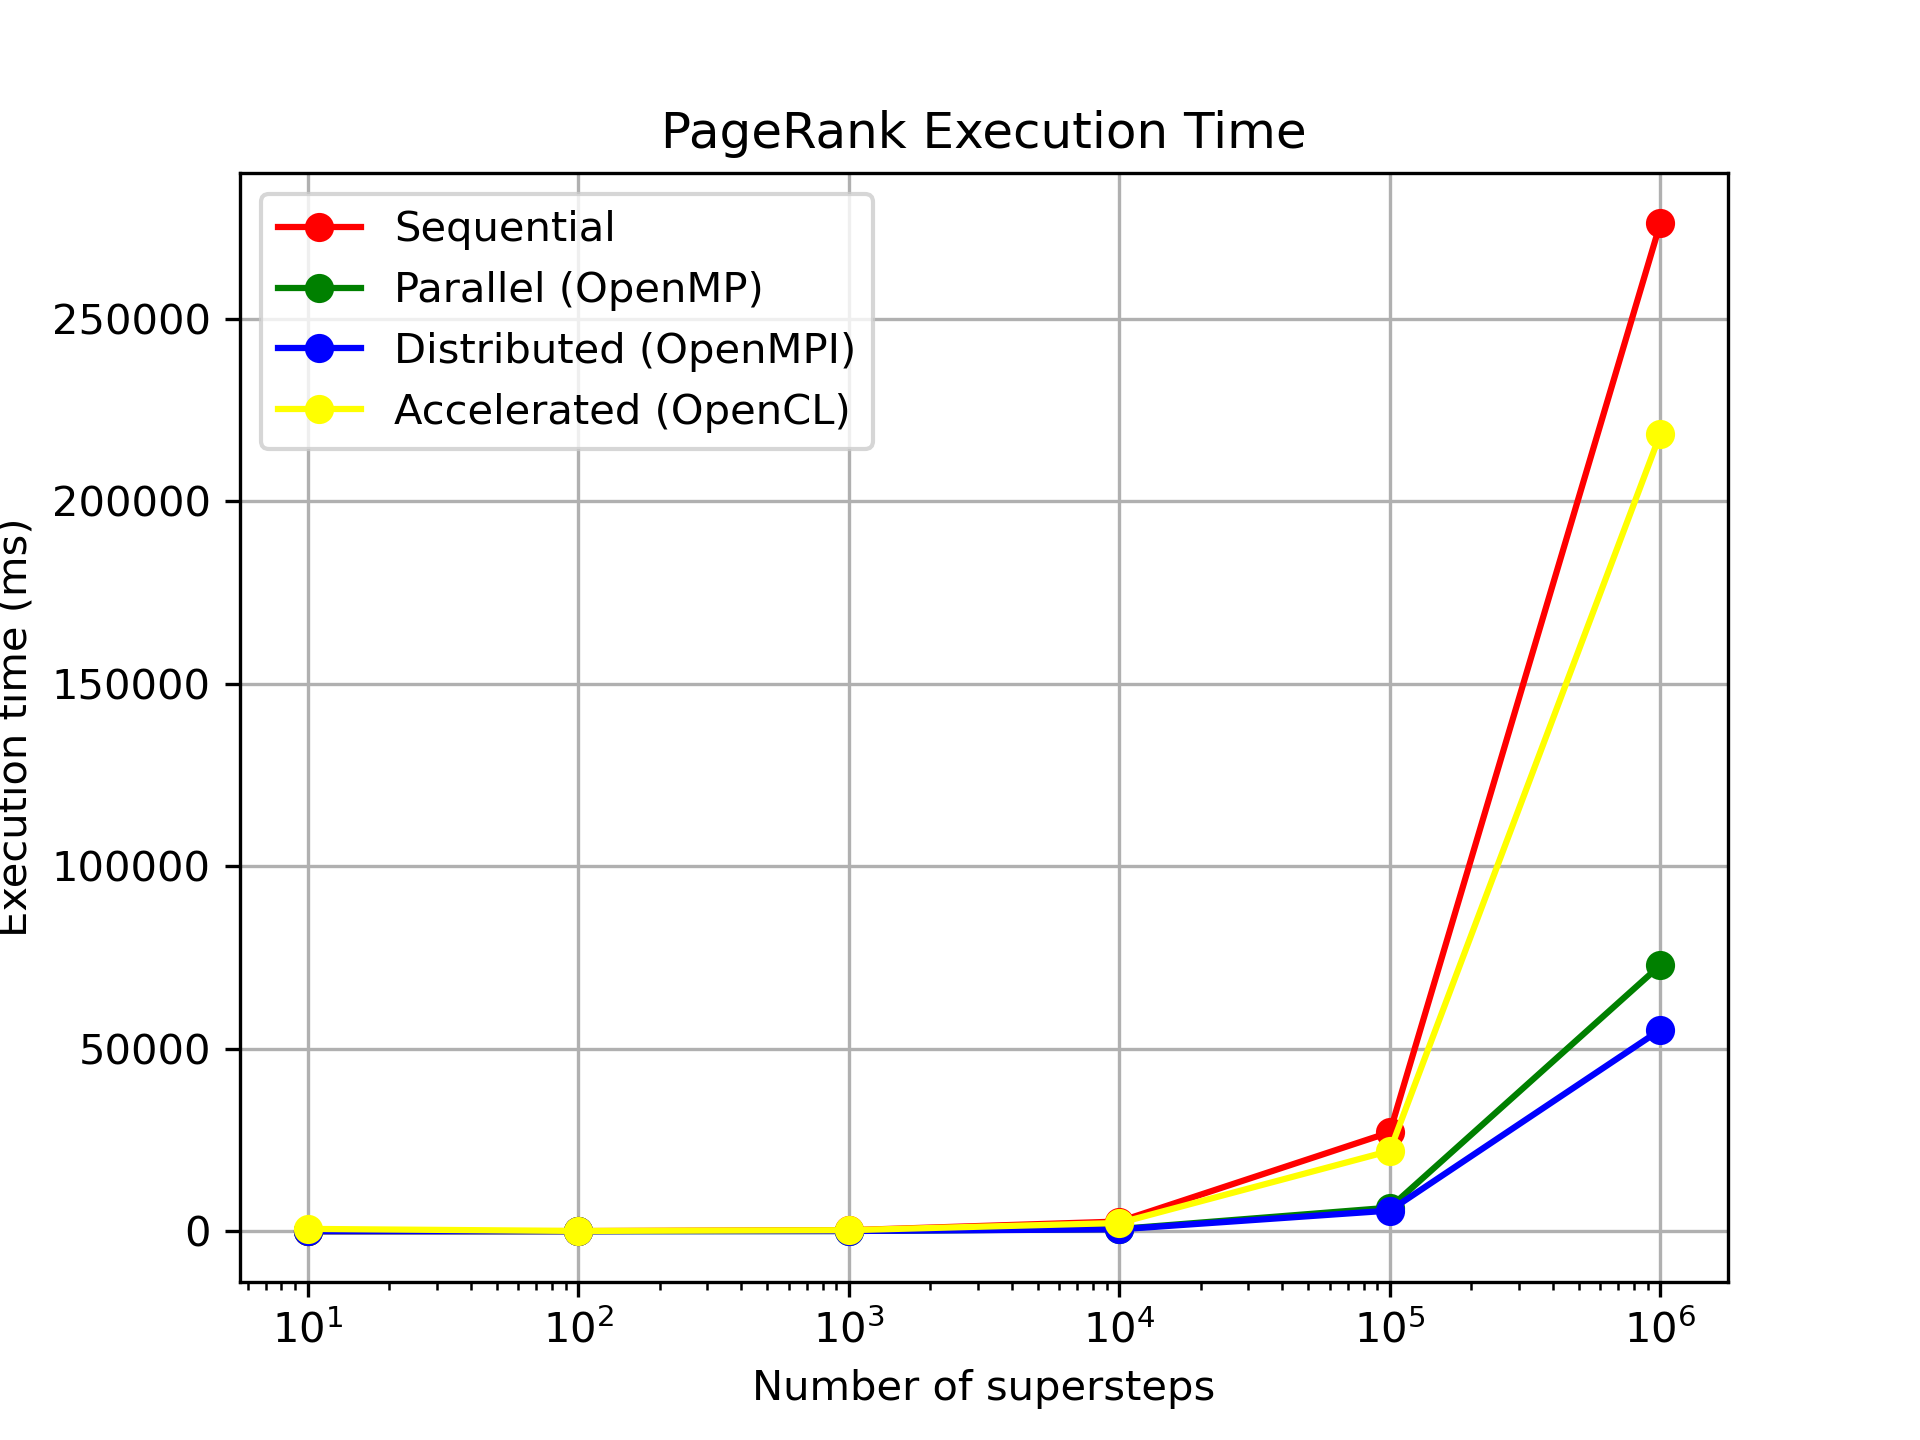
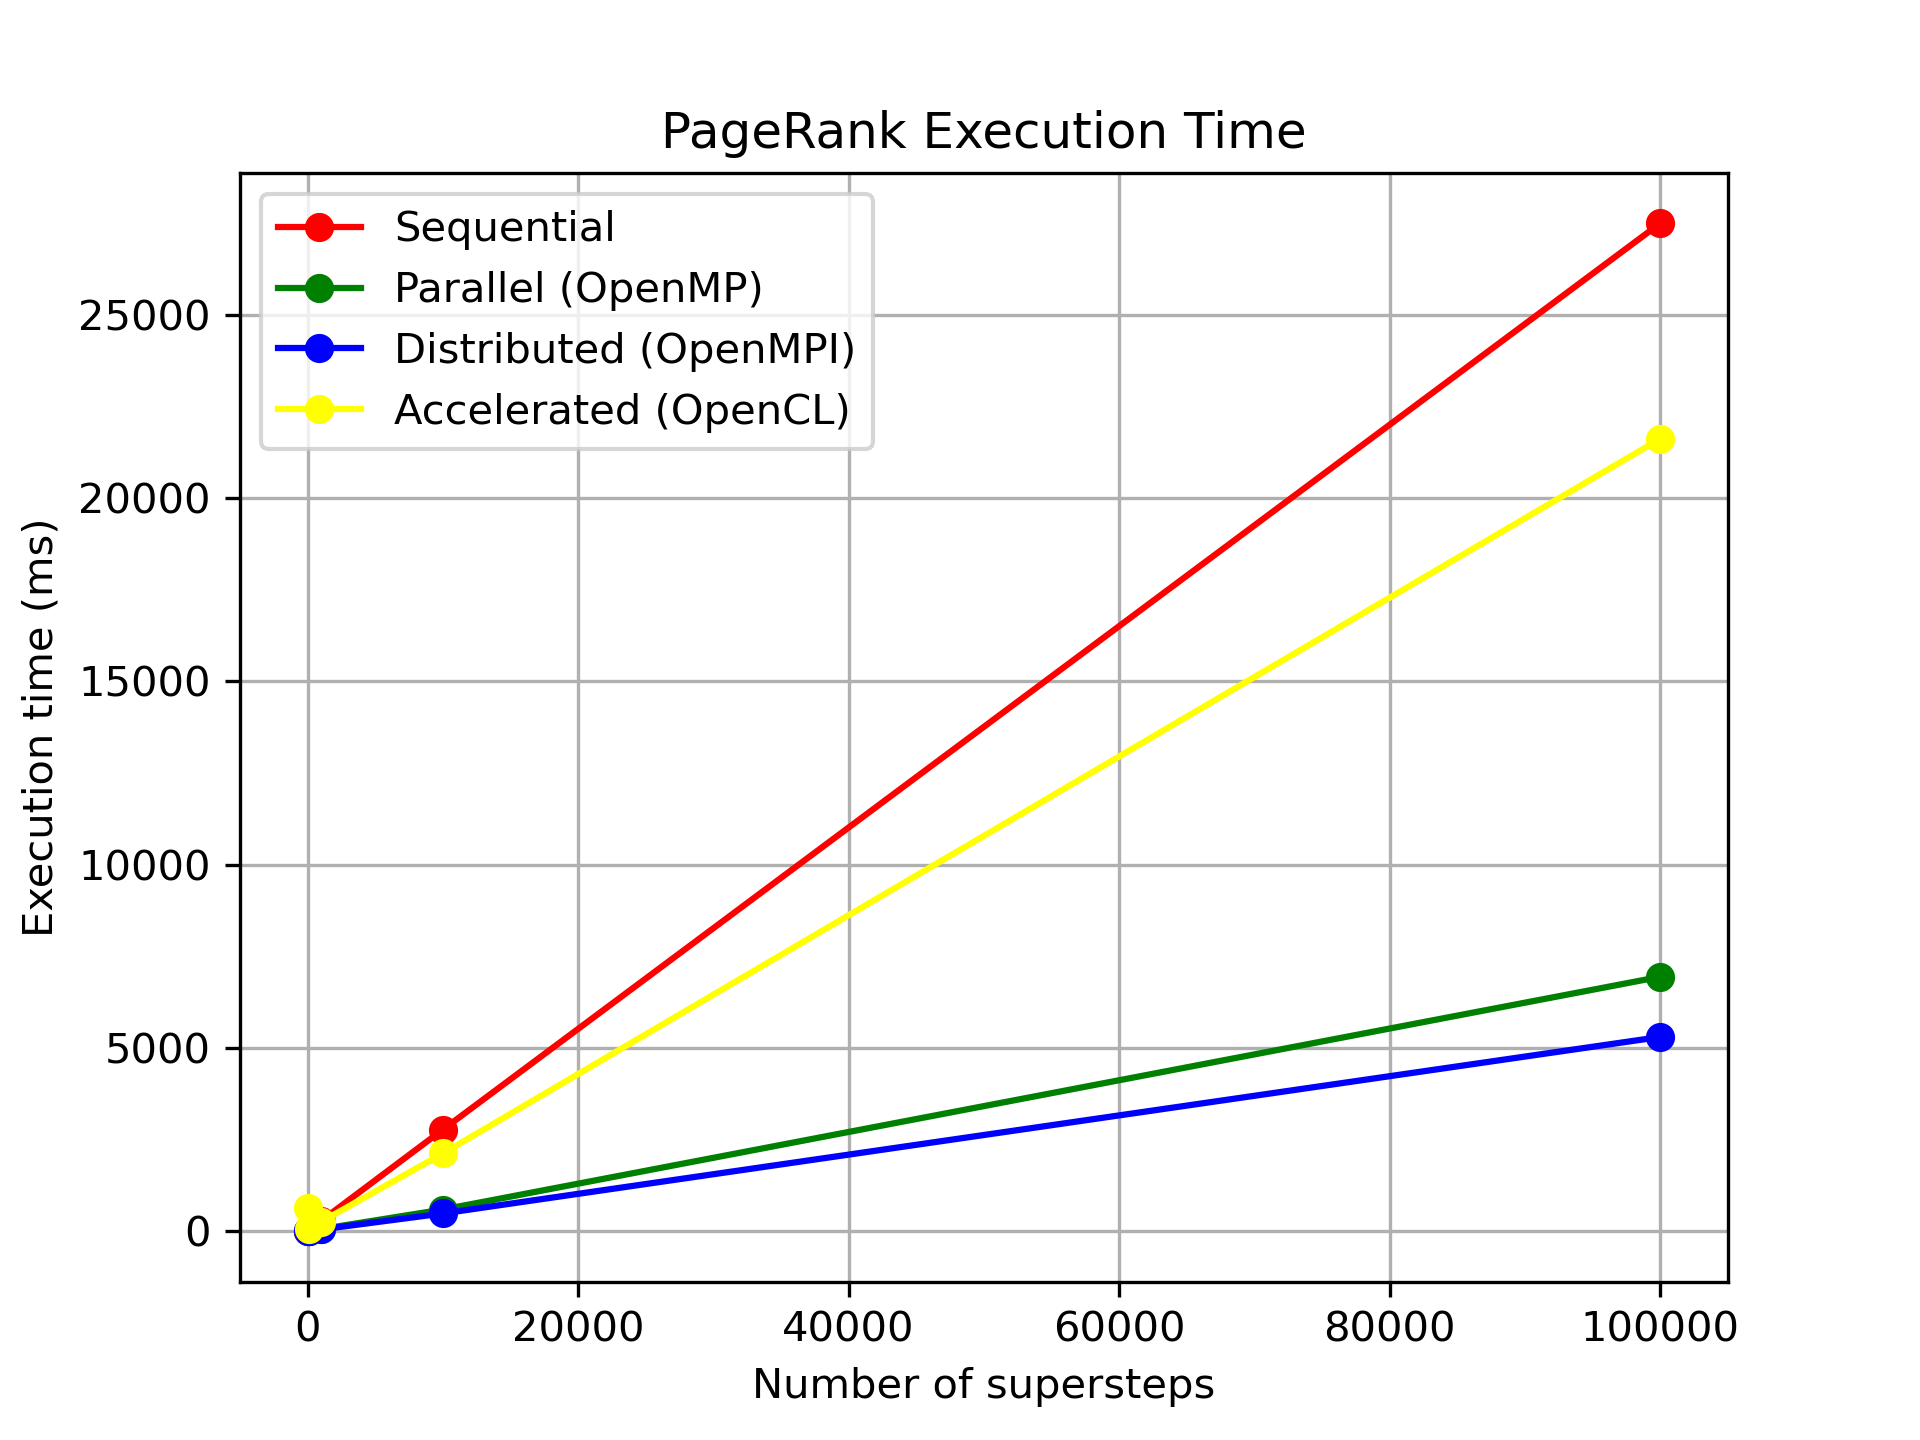
feature: Run/Stop scripts.

diff --git a/examples/page-rank/test-runner/test_runner.py b/examples/page-rank/test-runner/test_runner.py
@@ -9,7 +9,7 @@ ACCELERATED_PAGE_RANK = "./page-rank/pageRankAccelerated"
 
 OUTPUT_DIR = "./output"
 
-SUPERSTEPS_LIST = [10, 100, 1000, 10000, 100000, 1000000]
+SUPERSTEPS_LIST = [10, 100, 1000, 10000, 100000]
 MPI_PROCESSES = 4
 
 def run_test(cmd, test_name):
